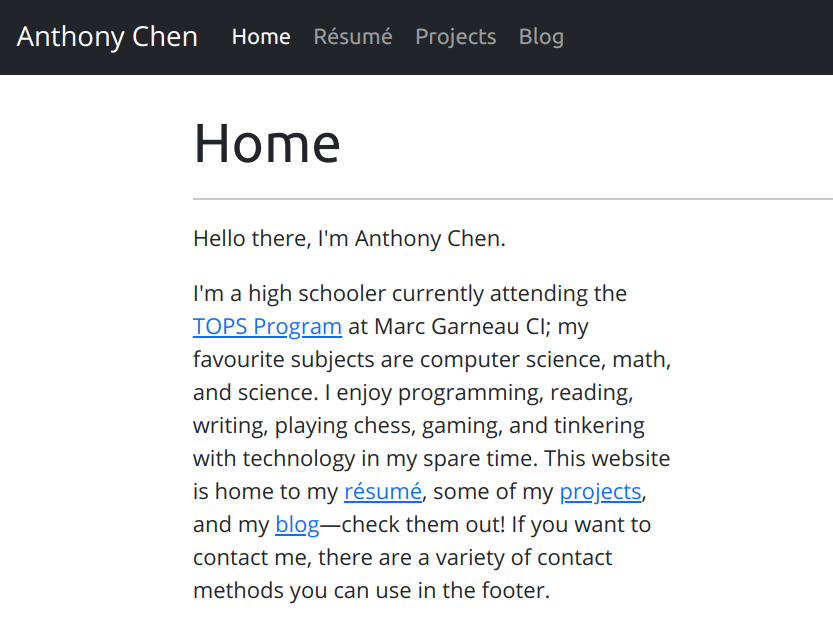
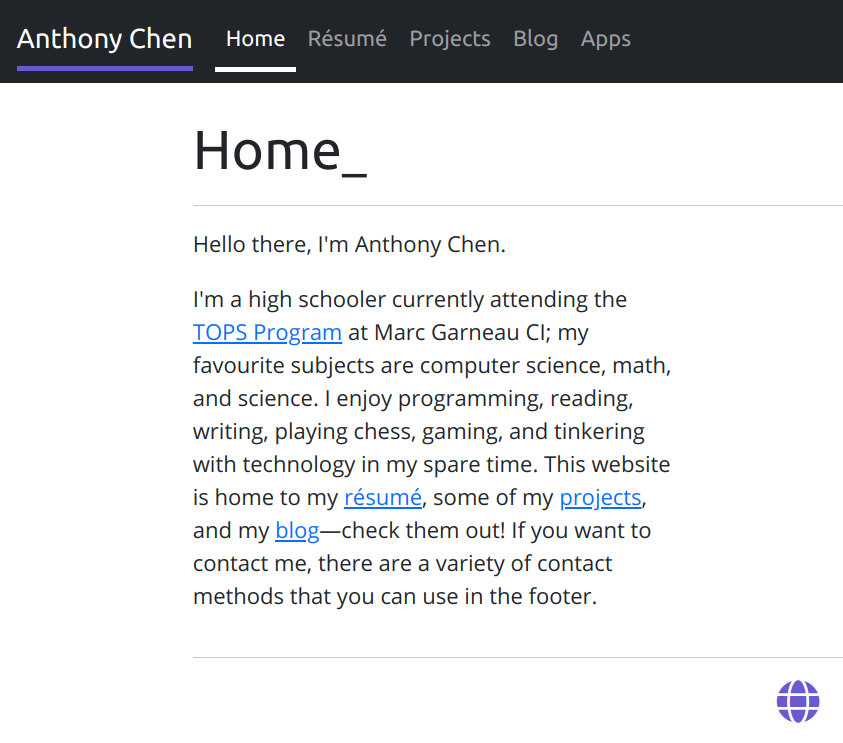
navbar borders

diff --git a/assets/css/style.css b/assets/css/style.css
@@ -2,7 +2,7 @@
     font-family: "Open Sans", sans-serif;
 }
 
-.navbar-dark, .navbar-nav, .nav-link, h1, h2, h3, h4, h5, h6 {
+.navbar-dark, .navbar-nav, .nav-link, .navbar-brand, h1, h2, h3, h4, h5, h6 {
     font-family: "Ubuntu", sans-serif;
 }
 
@@ -92,7 +92,7 @@
     }
 }
 
-/* change bootstrap"s buttons and links so they looks better */
+/* make bootstrap buttons and links look better */
 .icon, .btn {
     color: slateblue;
 }
@@ -102,6 +102,7 @@
 }
 
 .btn:hover {
+    border-color: royalblue;
     background-color: royalblue;
 }
 
@@ -112,4 +113,24 @@
 .form-control-file {
     border: 4px solid;
     border-color: slateblue;
+}
+
+/* add bottom border to nav elements */
+.nav-link.active {
+    border-bottom: 4px solid;
+    border-color: white;
+}
+
+.nav-link:hover:not(.active) {
+    border-bottom: 4px solid;
+    border-color: rgba(255,255,255,.55);
+}
+
+.navbar-brand {
+    border-bottom: 4px solid;
+    border-color: slateblue;
+}
+
+.navbar-brand:hover {
+    border-color: royalblue;
 }

diff --git a/apps/index.html b/apps/index.html
@@ -38,7 +38,7 @@
             <h1>Apps<span class="blinking">_</span></h1>
         </div>
         <hr>
-        <p>Some of my web applications are accessible on this website, and are listed here. Most of them are also described on the <a href="/projects/">projects</a> page, and available on <a href="https://github.com//">GitHub</a>.</p>
+        <p>Some of my web applications are accessible online, and are listed here. They're also described on the <a href="/projects/">projects</a> page, and available on <a href="https://github.com//">GitHub</a>.</p>
         <div class="d-grid mb-4 col-6 mx-auto">
             <a class="btn btn-outline-primary" href="/apps/markov/" type="button">AI Text Generator</a>
         </div>
